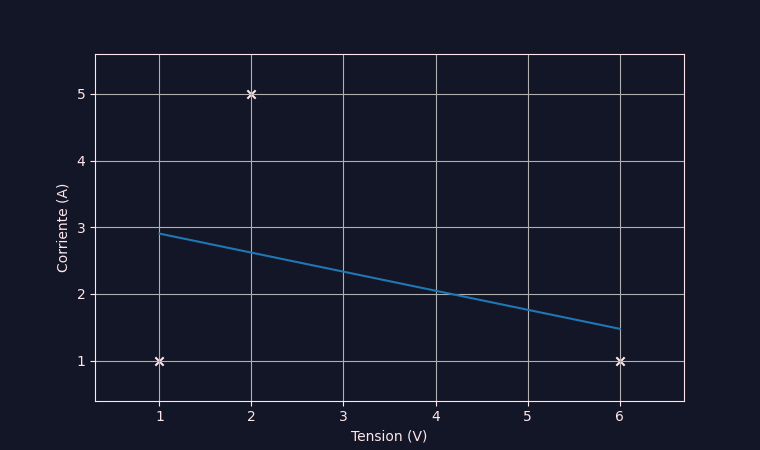
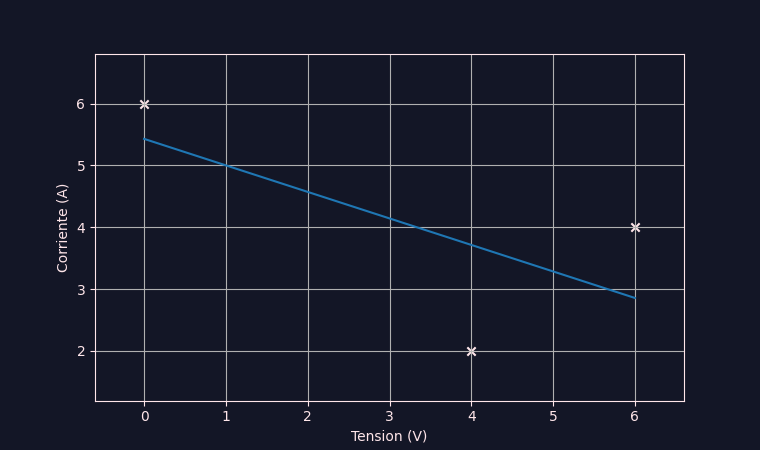
version 1.0.1

diff --git a/components/interpolator.py b/components/interpolator.py
@@ -9,14 +9,14 @@ def newton(points, _):
         if len(sample[:,0]) == 1:
             coef = sample[0,1]
         else:
-            coef = (ddiv(sample[1:,:]) - ddiv(sample[:-1,:])) / (sample[-1,0]-points[0,0])
+            coef = (ddiv(sample[1:,:]) - ddiv(sample[:-1,:])) / (sample[-1,0]-sample[0,0])
         return coef
 
     poly = 0
     roots = 1
-    for i in range(len(points)):
+    for i in range(len(points[:,0])):
         poly += roots*ddiv(points[:i+1,:])
-        roots = roots*(x-points[i,1])
+        roots = roots*(x-points[i,0])
     return poly
 
 def lagrange(points, _):
@@ -24,7 +24,7 @@ def lagrange(points, _):
         l = 1
         for i in range(len(sample)):
             if i != j:
-                l = l * (x-sample[i,0])/(sample[j,0]-sample[j,0])
+                l = l * (x-sample[i,0])/(sample[j,0]-sample[i,0])
         return l
 
     poly = 0
@@ -32,7 +32,7 @@ def lagrange(points, _):
         poly += points[j,1]*lx(points, j) 
     return poly 
 
-
+""""
 def linear(points, _):    
     a, b = coef_msquare(points)
     poly = a*x+b
@@ -52,7 +52,7 @@ def ln(points, _):
     a, _ = coef_msquare(points)
     poly = sym.ln(a*x)
     return poly
-
+"""
 
 def coef_msquare(points):
     n = len(points)

diff --git a/components/controller.py b/components/controller.py
@@ -2,9 +2,9 @@ import pandas as pd
 import components.interpolator as polys
 import matplotlib.pyplot as plt
 from numpy import linspace, array
-from sympy import Symbol
+from sympy import Symbol, simplify
 from components.connection import get_data
-from components.generator import write_points
+from components.generator import write_points, write_summary
 from matplotlib.figure import Figure
 from matplotlib.backends.backend_tkagg import FigureCanvasTkAgg
 
@@ -84,10 +84,15 @@ def update_curve(ax, chart, method, n):
     x = Symbol("x")
     px = getattr(polys, method)(points.to_numpy(), n)
     domain = linspace(points["sensorX"].min(), points["sensorX"].max(), num=100)
-    print(domain)
     image = array([px.subs(x, val)  for val in domain])
     ax.plot(domain, image)
     chart.draw()
+    write_summary({
+        "method": method,
+        "deg": n if n!=None else len(points)-1,
+        "poly": str(simplify(px)),
+        "points": len(points),
+    })
     return
 
 def set_point(ax, chart):

diff --git a/components/connection.py b/components/connection.py
@@ -4,7 +4,7 @@ import sys
 
 global UART, PATTERN, MAX_ITER
 try:
-	UART = serial.Serial("COM3")
+	UART = serial.Serial("COM4")
 	PATTERN = r'sensorX:[0-9]+ sensorY:[0-9]+ !'
 	MAX_ITER = 10
 except:
@@ -20,14 +20,11 @@ def get_data(iteration = 0):
 		} 
 	try:
 		raw = UART.read_until(b'!').decode('ascii')
-		if bool(re.search(PATTERN, raw)):
-			chunk = raw.split()
-			return {
-				"sensorX": float(chunk[0].split(":")[-1]),
-				"sensorY": float(chunk[1].split(":")[-1]),
-			}
-		else:
-			get_data(iteration+1)
+		chunk = raw.split()
+		return {
+			"sensorX": float(chunk[0].split(":")[-1]),
+			"sensorY": float(chunk[1].split(":")[-1]),
+		}
 	except:
 		get_data(iteration+1)
 	

diff --git a/components/generator.py b/components/generator.py
@@ -12,11 +12,24 @@ def make_name():
 def download_zip(fig):
     image = "data/cache/image.png"
     data = "data/cache/points.csv"
+    info = "data/cache/description.txt"
     fig.savefig(image)
     zipper = ZipFile(f"data/{make_name()}", "w")
     zipper.write(image)
     zipper.write(data)
+    zipper.write(info)
     zipper.close()
+    return
+
+def write_summary(metadata):
+    info = f""" 
+method: {metadata["method"]}
+poly: {metadata["poly"]}
+deg: {metadata["deg"]}
+points: {metadata["points"]} 
+"""
+    with open("data/cache/description.txt", "w") as file:
+        file.write(info)
     return
 
 def write_points(values: list, mode='a'):

diff --git a/components/gui.py b/components/gui.py
@@ -100,7 +100,7 @@ canvas.create_text(
 
 algo = Combobox(
     state = "readonly", 
-    values = ["newton", "lagrange", "linear", "exp_asc", "exp_dsc", "ln"],
+    values = ["newton", "lagrange", "linear"],
     font = (FONT, 22 * -1),
     width=10,
 )
